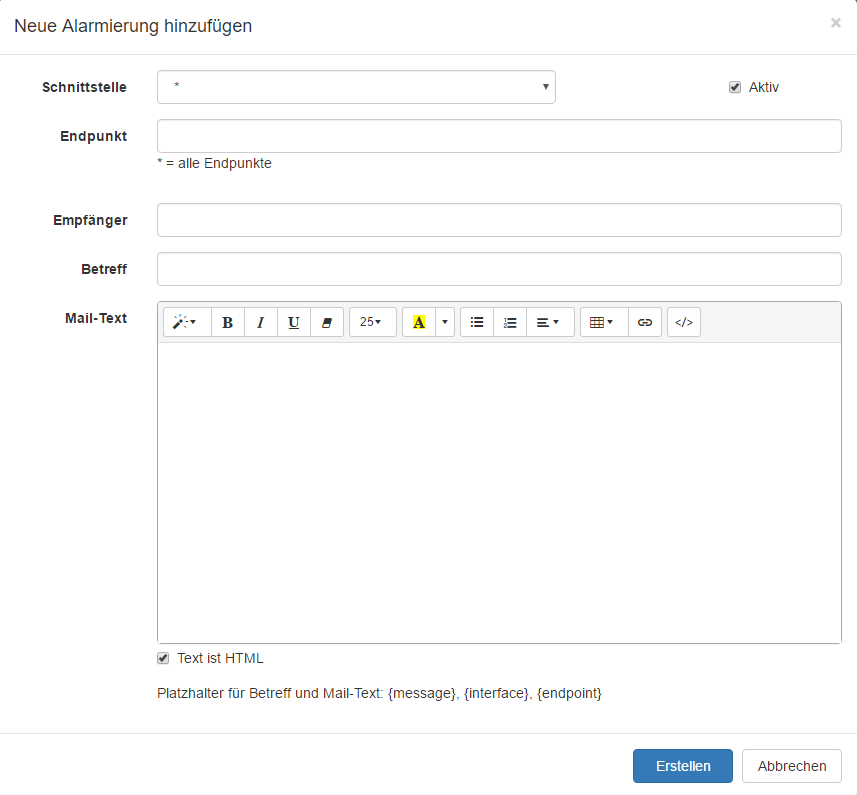
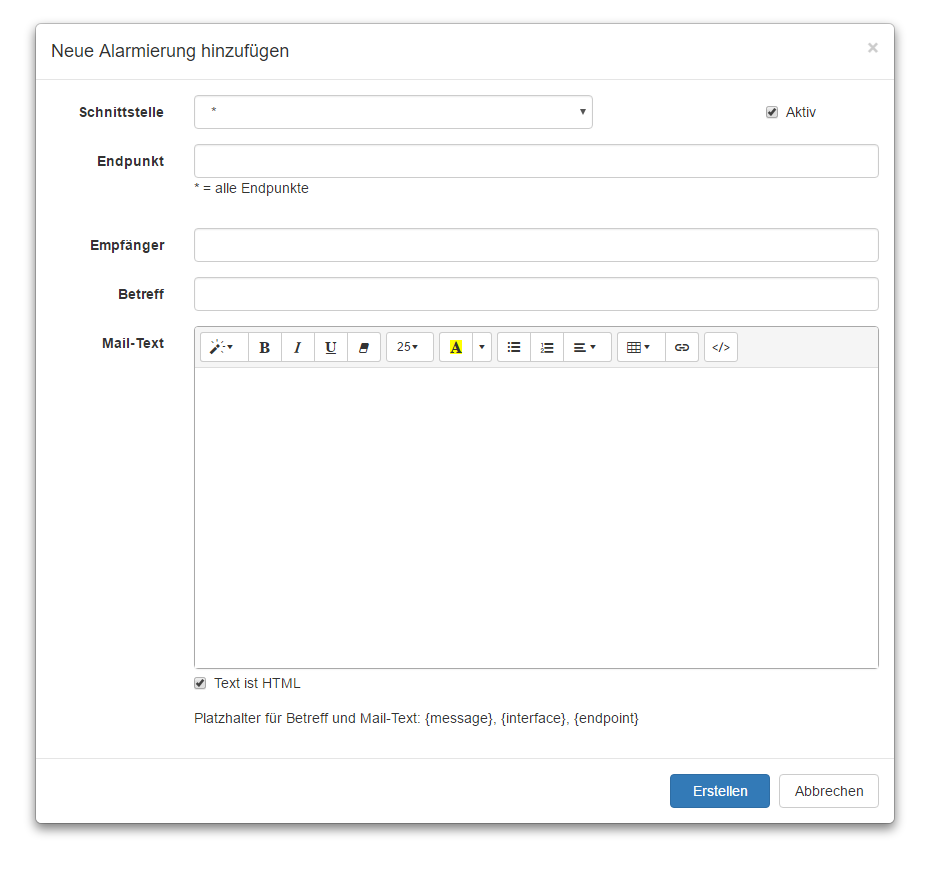
Screenshots angepasst

Changed region(s): [[0.0, 0.0, 0.9708, 0.9962], [0.182, 0.7547, 0.6978, 0.8755], [0.8191, 0.0906, 0.9102, 0.1509]]

diff --git a/_pages/webclient/de/konfiguration.md b/_pages/webclient/de/konfiguration.md
@@ -9,7 +9,7 @@ Die Konfigurationsseite bietet ein Übersicht über alle konfigurierten Addin In
 
 ![x]({{ site.baseurl }}/assets/content-images/webclient/de/addinoverview.png "Addin Overview")
 
-### 1. OneConnexx Verwalten
+#### 1. OneConnexx Verwalten
   * Einstellungen neu laden    
   Wird diese Schaltfläche angewählt, dann werden alle Einstellungen neu aus dem Service oder der Datenbank geladen
   
@@ -34,7 +34,7 @@ Die Konfigurationsseite bietet ein Übersicht über alle konfigurierten Addin In
   * Neue Guppe erstellen  
   Über diese Schaltfläche kann eine neue Gruppe erstellt werden. __Wenn keine Grupper vorhanden ist, kann auch keine Instanz konfiguriert werden__. Die Gruppe dient nur als Optische/Logische Gruppierung und hat keinen Einfluss auf die Logik der Software.
   
-### 2. Instanz Details
+#### 2. Instanz Details
   Die Detailansicht der verschiedenen Instanzen unterscheidet sich leicht. Die obige Ansicht erscheint wenn eine Instanz eines Event Addins ausgewählt wurde. Bei einem Logik Addin würde diese folgendermassen Aussehen:
   <br /><br />
   ![X]({{ site.baseurl }}/assets/content-images/webclient/de/detailviewlogicaddin.png "Instanz Detail Logik Addin")
@@ -65,7 +65,7 @@ Die Konfigurationsseite bietet ein Übersicht über alle konfigurierten Addin In
 	<br /><br />
 	![X]({{ site.baseurl }}/assets/content-images/webclient/de/startlogicwithparams.png "Logik Starten mit Parametern")
 	
-### 3. Instanzen Übersicht.
+#### 3. Instanzen Übersicht.
   Bei der Instanzansicht können zwei Ansichten ausgewählt werden;
   
   * Ordnung nach Gruppe  
@@ -75,14 +75,14 @@ Die Konfigurationsseite bietet ein Übersicht über alle konfigurierten Addin In
   * Ordnung nach AddIntyp  
   ![X]({{ site.baseurl}}/assets/content-images/webclient/de/groupbyaddintype.png "Gupieren nach AddIntype")
   
-### 4. Instanzparameter
+#### 4. Instanzparameter
   Bei den Instanzparametern gibt es zwei verschieden: die optionalen und die zwingenden.
   Im obigen Beispiel ist z.B. der Parameter "interval" zwingend. Zu erkennen ist dies an der roten Umrandung. Ohne diese Parameter kann die Instanz nicht ausgeführt werden.
   Die Optionalen sind nicht zwingend für das Ausführen der Instanz.
   
   Die Parameter unterscheiden sich von Addin zu Addin
 
-### 5. Addins miteinander verbinden
+#### 5. Addins miteinander verbinden
   
   AddIns können miteinander verbunden werden. Dazu gibt es folgende Grundsätze:
   

diff --git a/_pages/webclient/de/alarmierung.md b/_pages/webclient/de/alarmierung.md
@@ -30,21 +30,21 @@ Die Infomail wird aber auch ausgelöst wenn Endpunkt a der Schnittstelle x ohne 
 
 ![X]({{ site.baseUrl }}/assets/content-images/webclient/de/alerting.png "Übersicht Regeln")  
 
-### 1. Textsuche  
+#### 1. Textsuche  
 Die Textsuche schränkt die Liste auf Einträge ein, welche einen bestimmten Ausdruck enthalten.
 Im Unterschied zu vielen Textsuchfeldern im OneConnexx besteht hier keine Möglichkeit Regulären Ausdrücke zu verwenden 
 
-### 2. Sortierung  
+#### 2. Sortierung  
 Über diese Schaltfläche kann die Sortierung geändert werden. Entweder A-Z oder Z-A. Diese Schaltfläche ist bei jeder Spalte vorhanden. Aktiv ist immer die letztgesetze Sortierung.
 
-### 3. Alarmierung hinzufügen  
+#### 3. Alarmierung hinzufügen  
 Beim Klick auf diese Schaltfläche öffnet sich folgender Dialog:  
 
 ![X]({{ site.baseUrl }}/assets/content-images/webclient/de/addNewAlerting.png "Neue Regel hinzufügen")  
 
 Für das Erstellen der Alarmierung kann aus der Liste der bestehenden Schnittstellen eine ausgewählt werden. Dazu kann auch noch ein spezifischer Endpunkt der Schnittstelle eingegeben (nicht ausgewählt) werden (* für alle Endpunkte der gewählten Schnittstelle). Diese werden dann Überwacht und sobald eine fehlerhafte Transaktion geschrieben wird, wird eine Mail an den definierten Empfänger gesendet. Zudem kann im Text über die unter dem Eingabefeld für die Nachricht definierten Platzhalter auf den Namen der Schnittstelle und des Endpunktes, und die Nachricht der Transaktion zugegriffen werden. 
 
-### 4. Alarmierung löschen/bearbeiten  
+#### 4. Alarmierung löschen/bearbeiten  
 Mit einem Klick auf die linke Schaltfläche kann eine Alarmierung bearbeitet werden.
 Mit einem Klick auf die rechte Schaltfläche kann eine Alarmierung gelöscht werden
 

diff --git a/_pages/webclient/de/installation.md b/_pages/webclient/de/installation.md
@@ -33,7 +33,7 @@ Ein klick auf Name, Server oder Port lädt die Installation
 	
  Steuerschaltlächen
 
-### 1. Installation Hinzufügen  
+#### 1. Installation Hinzufügen  
 
 Ein Klick auf das Plus öffenet den folgenden Dialog:
 
@@ -47,7 +47,7 @@ Ein Klick auf das Plus öffenet den folgenden Dialog:
  * Verbindungszeichenfolge  
  Die Verbindungszeichenfolge (Connectionstring) für die SQL-Datenbank (falls vorhanden). Mit dem Button unter dem Eingabefeld kann die Verbindung direkt getestet werden.
 
-### 2. Installation Bearbeiten/Löschen    
+#### 2. Installation Bearbeiten/Löschen    
 
  Mit diesen beiden Schaltflächen kann eine Installtion bearbeitet/gelöscht werden.
  
